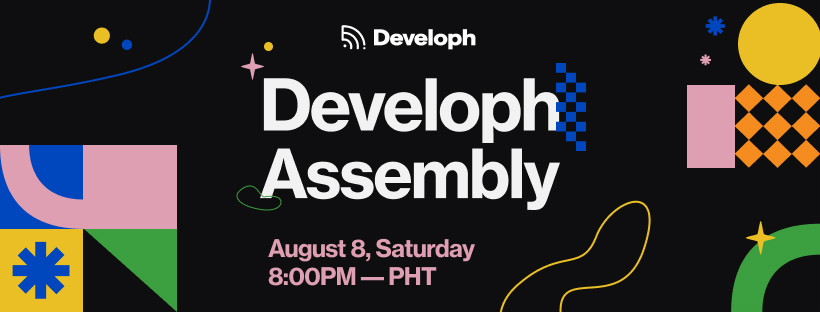
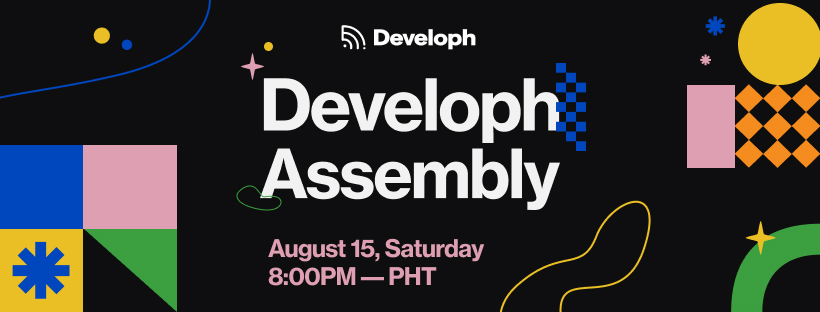
new events

Changed region(s): [[0.0, 0.4615, 0.122, 0.75], [0.4268, 0.75, 0.6098, 0.8365]]

diff --git a/public/assembly.html b/public/assembly.html
@@ -379,10 +379,13 @@
                   <p class="intro">
                     We're calling on everyone: from our community members new and old, and anyone eager to learn more about Developh, our partners and friends to join us in a week-long series of talks and workshops brought by our core, to you. Join us for our General Assembly on Saturday and for our other tiny events–we're thrilled to welcome you into the community!<br><br>
                       
-                    Explore our work on technology for social good, learn how innovation can be made more impactful, and be a part of crafting technology and experiences for social good with us.</p><br>
+                    Explore our work on technology for social good, learn how innovation can be made more impactful, and be a part of crafting technology and experiences for social good with us.<br><br><strong>We're extending the Assembly til the 15th!</strong></p>
+                  
+                  
+                  <br>
                   
                 <center>
-                  <div class="__details">August 7–12, 2020</div>
+                  <div class="__details">August 7–15, 2020</div>
                   <div class="__details">Online, open to all</div>
                   <div class="__details">General Assembly, talks, workshops, networking, & more!</div>
                  </center>
@@ -404,7 +407,7 @@
             <p>Ready to join the Assembly? Fill in the form below and we'll get back to you with the confirmation email and Assembly Kit within a day.</p>
                   
             <a href="https://forms.gle/mSGoV25gxGCX1xTF8" target="_blank" class="__reg-button">Register for the Developh Assembly</a><br>
-            <span class="__reg-notice">2 days left to register</span>
+            <span class="__reg-notice">Assembly is ongoing!</span>
             <!--  Fuck this i'll just make it manual -->
             
             </div>    
@@ -598,13 +601,7 @@
             <p>As an organization focused on tangible impact and change over pure awareness, it’s easy to get caught up in intentions to do good not aligning at all with execution.<br>Watch us examine the development of our passion projects and initiatives––getting things done instead of just spreading awareness.
 </p>
         </div>
-                      
-        <div class="sched__ special">
-            <h4>Main Assembly</h4>    
-            <div class="type">Assembly</div>
-            <div class="sched__time">8PM&mdash;</div>
-            <p>The main assembly welcomes members new and old into the background, growth, and programs being run by Developh. The Developh Core team will share the roadmap of our initiatives and projects, the state of the organization, and open programs and projects to signups.</p>
-        </div>
+                
                          
         <h2>August 9, Sunday</h2>
 
@@ -679,7 +676,35 @@
             <div class="sched__time">8:00&mdash;9:30PM</div>
             <p>Join us for a panel and Q&A featuring the Developh team as we discuss our careers, social impact work, and thoughts about the technology and creation ecosystem we're creating for.</p>
         </div>
+                    
+        <h2>August 14, Friday</h2>
                       
+        <div class="sched__">
+            <h4>2000s Internet Nostalgia Trivia Night</h4>    
+            <div class="type">Community</div>
+            <div class="sched__time">8:00&mdash;</div>
+            <p>We’re the youth who grew up in the age and rise of the internet. Join us for our first 2000s Internet Nostalgia Trivia Night in duos, or spectate on Facebook as we traverse everything from mid-2000s pop hits, early internet memes and culture, and everything that probably should’ve stayed dead!</p>
+        </div>
+                    
+                    
+        <h2>August 15, Saturday</h2>
+                            
+        <div class="sched__ special">
+            <h4>Main Assembly</h4>    
+            <div class="type">Assembly</div>
+            <div class="sched__time">8PM&mdash;</div>
+            <p>The main assembly welcomes members new and old into the background, growth, and programs being run by Developh. The Developh Core team will share the roadmap of our initiatives and projects, the state of the organization, and open programs and projects to signups.</p>
+        </div>
+                             
+        <div class="sched__ special">
+            <h4>Talent Show</h4>    
+            <div class="type">Assembly</div>
+            <div class="sched__time">After Assembly, same room</div>
+            <p>After the Assembly on August 8, 8PM Saturday-we’re coming together for the messiest Zoom Talent Show in Developh history! (It’s also the first, so…)
+
+Come together and show off the best of you in a laggy Zoom call alone or in groups. This is all about celebrating talent, friends, and ourselves in the silliest way possible. 6 minutes. Anything goes.</p>
+        </div>
+                    
                   </div>
                 
                      

diff --git a/public/portal/index.html b/public/portal/index.html
@@ -432,11 +432,11 @@
                     <h1>Developh Portal</h1>
 
                     <p class="intro">Welcome to the Portal.</p>
-                    <p class="intro">Details and events on the Assembly will be posted here. Keep this to registered participants only!</p>
+                    <p class="intro">Details and events on the Assembly will be posted here. <em>Assembly is now extended til August 15th and more events are coming your way!</em></p>
 
 
                     <center>
-                        <div class="__details">August 7–12, 2020</div>
+                        <div class="__details">August 7–15, 2020</div>
                         <div class="__details">Online, open to all</div>
 
                         <hr>
@@ -485,12 +485,12 @@
                     <div class="event">
                         <h1 style="color:#EABF25;">Main Assembly</h1>
 
-                        <p>The Main Assembly on Saturday, 8PM PHT will be recorded and streamed live. We encourage you to join us to learn about the organization, our programming, and get involved! We're exploring how technology and creation can be made to work for the larger world, not just for the few.</p>
+                        <p>The Main Assembly on Saturday, August 15th, 8PM PHT will be recorded and streamed live. We encourage you to join us to learn about the organization, our programming, and get involved! We're exploring how technology and creation can be made to work for the larger world, not just for the few.</p>
 
                         <p>The main assembly welcomes members new and old into the background, growth, and programs being run by Developh. The Developh Core team will share the roadmap of our initiatives and projects, the state of the organization, and open programs and projects to signups.</p>
 
                         <div class="event-details">
-                            <div class="__detail"><strong>Date</strong> August 8, Saturday</div>
+                            <div class="__detail"><strong>Date</strong> August 15, Saturday</div>
 
                             <div class="__detail"><strong>Time</strong> 8:00PM PHT onwards</div>
                         </div>
@@ -551,13 +551,6 @@
                             <div class="sched__time">4&mdash;5:00PM</div>
                             <p>As an organization focused on tangible impact and change over pure awareness, it’s easy to get caught up in intentions to do good not aligning at all with execution.<br>Watch us examine the development of our passion projects and initiatives––getting things done instead of just spreading awareness.
                             </p>
-                        </div>
-
-                        <div class="sched__ special">
-                            <h4>Main Assembly</h4>
-                            <div class="type">Assembly</div>
-                            <div class="sched__time">8PM&mdash;</div>
-                            <p>The main assembly welcomes members new and old into the background, growth, and programs being run by Developh. The Developh Core team will share the roadmap of our initiatives and projects, the state of the organization, and open programs and projects to signups.</p>
                         </div>
 
                         <h2>August 9, Sunday</h2>
@@ -636,6 +629,26 @@
                             <div class="sched__time">8:00&mdash;9:30PM</div>
                             <p>Join us for a panel and Q&A featuring the Developh team as we discuss our careers, social impact work, and thoughts about the technology and creation ecosystem we're creating for.</p>
                         </div>
+                        
+                        
+        <h3>August 15, Saturday</h3>
+                            
+        <div class="sched__ special">
+            <h4>Main Assembly</h4>    
+            <div class="type">Assembly</div>
+            <div class="sched__time">8PM&mdash;</div>
+            <p>The main assembly welcomes members new and old into the background, growth, and programs being run by Developh. The Developh Core team will share the roadmap of our initiatives and projects, the state of the organization, and open programs and projects to signups.</p>
+        </div>
+                             
+        <div class="sched__ special">
+            <h4>Talent Show</h4>    
+            <div class="type">Assembly</div>
+            <div class="sched__time">After Assembly, same room</div>
+            <p>After the Assembly on August 8, 8PM Saturday-we’re coming together for the messiest Zoom Talent Show in Developh history! (It’s also the first, so…)
+
+Come together and show off the best of you in a laggy Zoom call alone or in groups. This is all about celebrating talent, friends, and ourselves in the silliest way possible. 6 minutes. Anything goes.</p>
+        </div>
+                        
 
                     </div>
 
